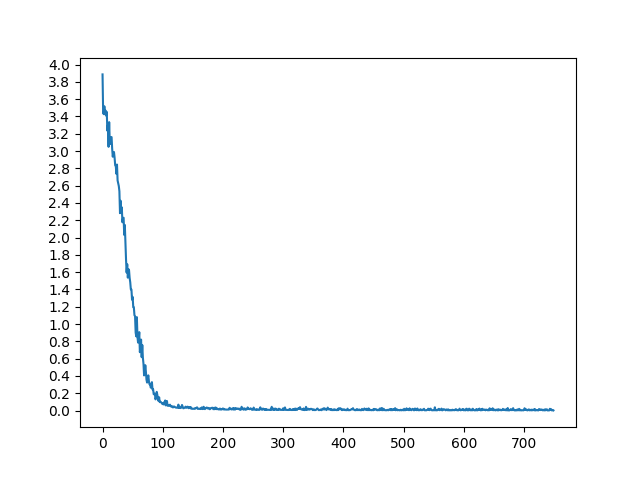
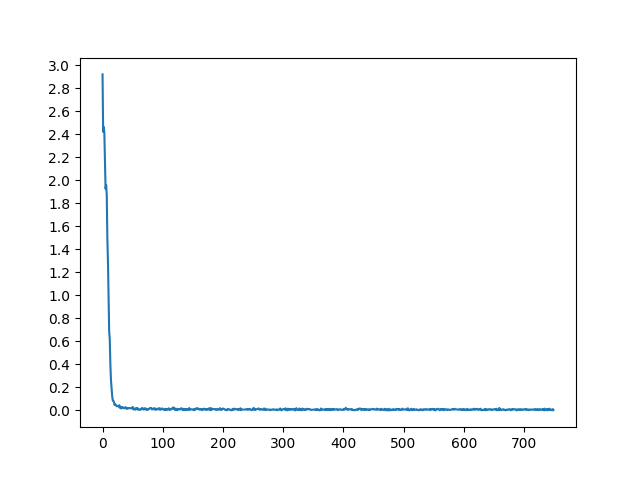
accuracy of attention model
Former-commit-id: 389a62e837ab12c47d1249a8d81b7e7bb7b983c8

Changed region(s): [[0.0625, 0.125, 0.125, 0.8438], [0.1562, 0.2188, 0.2188, 0.8438], [0.1875, 0.7188, 0.8438, 0.875]]

diff --git a/final_neural_network.py b/final_neural_network.py
@@ -620,7 +620,8 @@ def evaluate(encoder, decoder, sentence, max_length=MAX_LENGTH):
 # input, target, and output to make some subjective quality judgements:
 #
 
-def evaluateRandomly(encoder, decoder, n=10):
+def evaluateRandomly(encoder, decoder, n=100):
+    number_of_correct_sentences= 0
     for i in range(n):
         pair = random.choice(pairs)
         print('>', pair[0])
@@ -628,7 +629,11 @@ def evaluateRandomly(encoder, decoder, n=10):
         output_words, attentions = evaluate(encoder, decoder, pair[0])
         output_sentence = ' '.join(output_words)
         print('<', output_sentence)
+
+        if output_sentence[:len(output_sentence) - 6] == pair[1]:
+            number_of_correct_sentences = number_of_correct_sentences + 1
         print('')
+    print(number_of_correct_sentences)
 
 
 ######################################################################

diff --git a/neural_network.py b/neural_network.py
@@ -37,8 +37,8 @@ import tensorflow as tf
 # tests.test_tokenize(tokenize)
 # read csv input data
 data = pd.read_csv('mixedtranslation.csv')
-english_sentences = data['english_sentences'].fillna("")
-spanish_sentences = data['spanish_sentences'].fillna("")
+spanish_sentences = data['english_sentences'].fillna("")
+english_sentences = data['spanish_sentences'].fillna("")
 
 english_sentences_aux = helper.load_data('small_vocab_en')
 print(english_sentences_aux[0])
